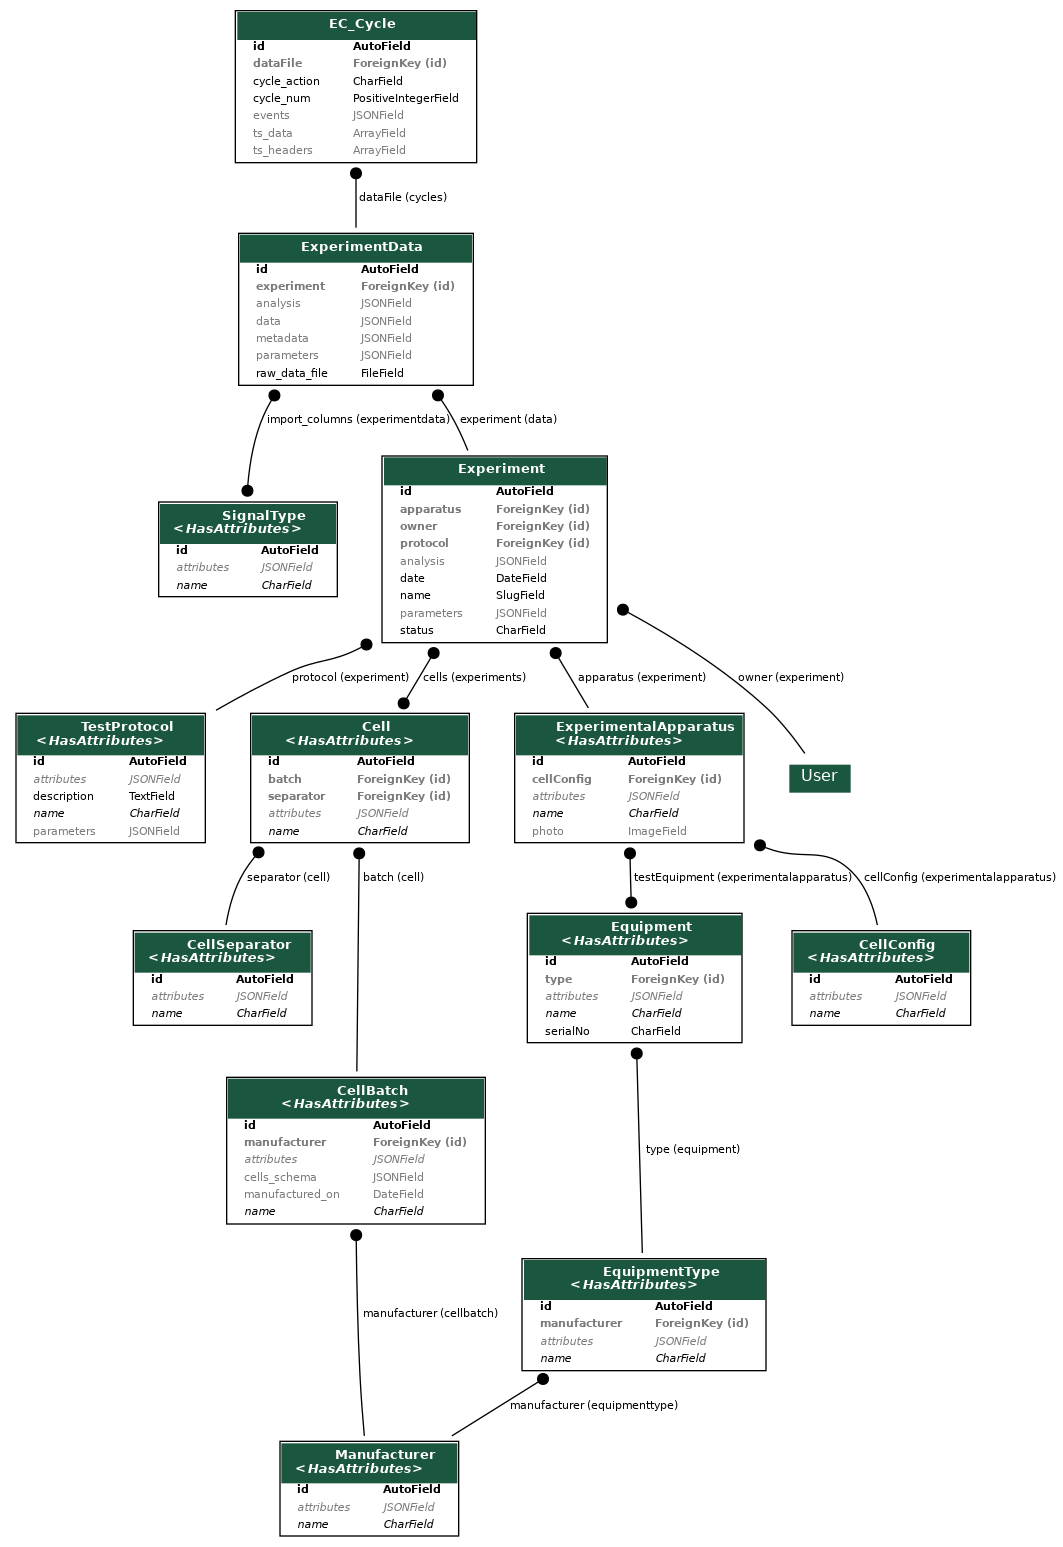
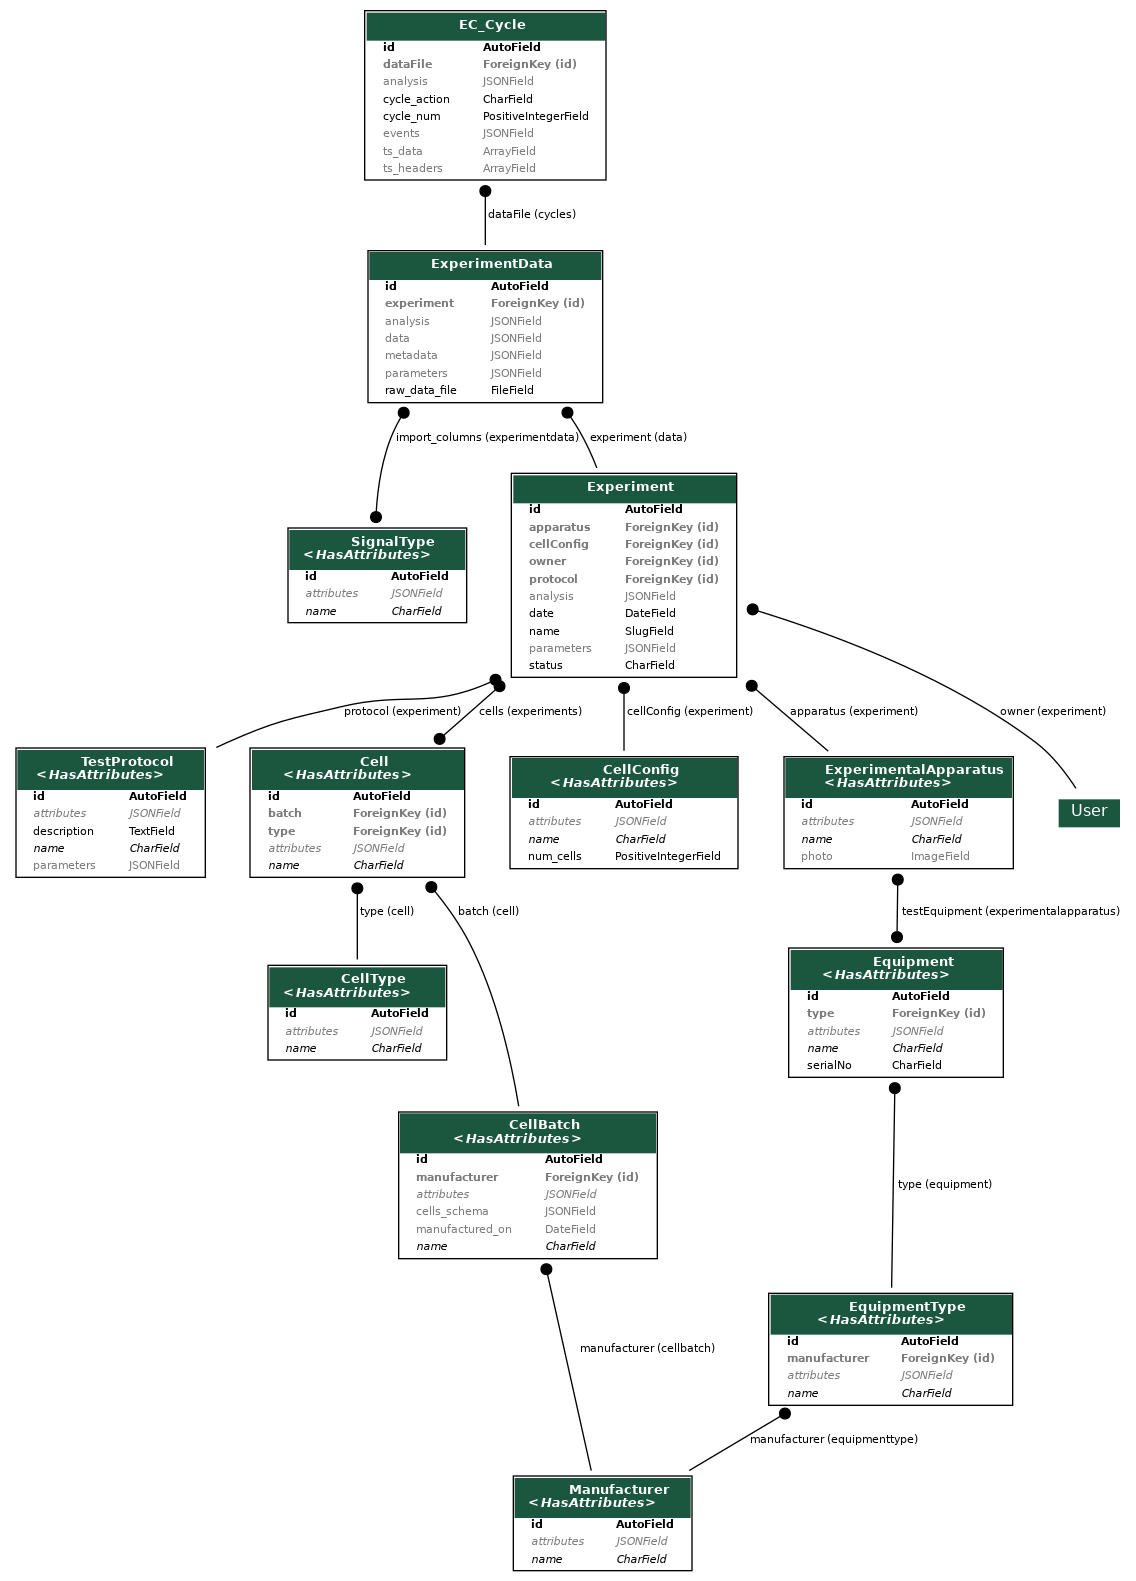
CellAttributes cleanup Added CellType model - allows cells and batches to be associated with a type containing general attributes removed cellSeparator model, instead added JSON attributes schema for CellType, CellBatch, Cell

diff --git a/djongoTest/battDB/models.py b/djongoTest/battDB/models.py
@@ -45,15 +45,21 @@ class Equipment(HasAttributes):
        verbose_name_plural="Equipment"
 
 def cellSeparator_schema():
+   pass
+
+def cell_schema():
     return {
-       "material":None,
-       "porosity_pct" : None
+       "Description":"Enter cell text description here - add parameters below",
+       "porosity_pct" : 10.0,
+       "separator" : "example atrtribute",
+       "electrolyte" : "example",
+       "electrode_material_pos":"example",
+       "electrode_material_neg":"example",
     }
 
-class CellSeparator(HasAttributes):
+class CellType(HasAttributes):
     pass
-CellSeparator._meta.get_field('attributes').default = cellSeparator_schema
-
+CellType._meta.get_field('attributes').default = cell_schema
 
 class CellBatch(HasAttributes):
     manufactured_on = models.DateField(null=True, blank=True)
@@ -61,23 +67,29 @@ class CellBatch(HasAttributes):
     cells_schema = JSONField(default=dict, blank=True)
     class Meta:
        verbose_name_plural="CellBatches"
-
-class CellConfig(HasAttributes):
-    pass
+CellBatch._meta.get_field('attributes').default = cell_schema
 
 class Cell(HasAttributes):
     batch = models.ForeignKey(CellBatch, on_delete=models.SET_NULL, null=True, blank=True)
-    separator = models.ForeignKey(CellSeparator, on_delete=models.SET_NULL, null=True, blank=True)
+    type = models.ForeignKey(CellType, on_delete=models.SET_NULL, null=True, blank=True)
+Cell._meta.get_field('attributes').default = cell_schema
+
+class CellConfig(HasAttributes):
+    # think about how to link cells into packs in a flexible way
+    num_cells = models.PositiveIntegerField(default=1)
 
 class ExperimentalApparatus(HasAttributes):
     testEquipment = models.ManyToManyField(Equipment)
-    cellConfig = models.ForeignKey(CellConfig, on_delete=models.SET_NULL,  null=True, blank=True)
     photo = models.ImageField(upload_to='apparatus_photos', null=True, blank=True)
     class Meta:
        verbose_name_plural="Experimental apparatus"
 
 def experimentParameters_schema():
     return {
+        "Example Parameter":"Value",
+        "NumCycles": 5,
+        "MinVoltage": 2.8,
+        "MaxVoltage": 4.2
     }
 
 def experimentAnalysis_schema():
@@ -105,6 +117,7 @@ class Experiment(models.Model):
     status = models.CharField(max_length=16, choices=[("edit", "Edit") , ("published", "Published")], default="edit")
     apparatus = models.ForeignKey(ExperimentalApparatus, on_delete=models.SET_NULL,  null=True, blank=True)
     cells = models.ManyToManyField(Cell, related_name='experiments')
+    cellConfig = models.ForeignKey(CellConfig, on_delete=models.SET_NULL,  null=True, blank=True)
     protocol = models.ForeignKey(TestProtocol, on_delete=models.SET_NULL,  null=True, blank=True)
     parameters = JSONField(default=experimentParameters_schema, blank=True)
     analysis = JSONField(default=experimentAnalysis_schema, blank=True)
@@ -141,6 +154,7 @@ class EC_Cycle(models.Model):
     ts_headers = ArrayField(models.CharField(max_length=32, null=True), null=True, blank=True)
     ts_data = ArrayField(ArrayField(models.FloatField(null=True), null=True), null=True, blank=True)
     events = JSONField(null=True, blank=True)
+    analysis = JSONField(default=experimentAnalysis_schema, blank=True)
     class Meta:
        verbose_name="EChem Cycle"
        verbose_name_plural="EChem Cycles"
@@ -180,3 +194,4 @@ def data_pre_save(sender, instance, *args, **kwargs):
 from django.dispatch import Signal
 from django.db.models import signals
 signals.post_save.connect(data_pre_save, sender=ExperimentData)
+

diff --git a/djongoTest/battDB/migrations/0032_auto_20200816_1432.py b/djongoTest/battDB/migrations/0032_auto_20200816_1432.py
@@ -1,0 +1,68 @@
+# Generated by Django 2.2.14 on 2020-08-16 14:32
+
+import battDB.models
+import django.contrib.postgres.fields.jsonb
+from django.db import migrations, models
+import django.db.models.deletion
+
+
+class Migration(migrations.Migration):
+
+    dependencies = [
+        ('battDB', '0031_auto_20200816_1357'),
+    ]
+
+    operations = [
+        migrations.CreateModel(
+            name='CellType',
+            fields=[
+                ('id', models.AutoField(auto_created=True, primary_key=True, serialize=False, verbose_name='ID')),
+                ('name', models.CharField(max_length=32, unique=True)),
+                ('attributes', django.contrib.postgres.fields.jsonb.JSONField(blank=True, default=battDB.models.cell_schema)),
+            ],
+            options={
+                'abstract': False,
+            },
+        ),
+        migrations.RemoveField(
+            model_name='cell',
+            name='separator',
+        ),
+        migrations.RemoveField(
+            model_name='experimentalapparatus',
+            name='cellConfig',
+        ),
+        migrations.AddField(
+            model_name='cellconfig',
+            name='num_cells',
+            field=models.PositiveIntegerField(default=1),
+        ),
+        migrations.AddField(
+            model_name='ec_cycle',
+            name='analysis',
+            field=django.contrib.postgres.fields.jsonb.JSONField(blank=True, default=battDB.models.experimentAnalysis_schema),
+        ),
+        migrations.AddField(
+            model_name='experiment',
+            name='cellConfig',
+            field=models.ForeignKey(blank=True, null=True, on_delete=django.db.models.deletion.SET_NULL, to='battDB.CellConfig'),
+        ),
+        migrations.AlterField(
+            model_name='cell',
+            name='attributes',
+            field=django.contrib.postgres.fields.jsonb.JSONField(blank=True, default=battDB.models.cell_schema),
+        ),
+        migrations.AlterField(
+            model_name='cellbatch',
+            name='attributes',
+            field=django.contrib.postgres.fields.jsonb.JSONField(blank=True, default=battDB.models.cell_schema),
+        ),
+        migrations.DeleteModel(
+            name='CellSeparator',
+        ),
+        migrations.AddField(
+            model_name='cell',
+            name='type',
+            field=models.ForeignKey(blank=True, null=True, on_delete=django.db.models.deletion.SET_NULL, to='battDB.CellType'),
+        ),
+    ]

diff --git a/djongoTest/battDB/migrations/0031_auto_20200816_1357.py b/djongoTest/battDB/migrations/0031_auto_20200816_1357.py
@@ -1,0 +1,29 @@
+# Generated by Django 2.2.14 on 2020-08-16 13:57
+
+import django.contrib.postgres.fields.jsonb
+from django.db import migrations, models
+import django.db.models.deletion
+
+
+class Migration(migrations.Migration):
+
+    dependencies = [
+        ('battDB', '0030_experimentdata_data'),
+    ]
+
+    operations = [
+        migrations.AlterModelOptions(
+            name='ec_cycle',
+            options={'verbose_name': 'EChem Cycle', 'verbose_name_plural': 'EChem Cycles'},
+        ),
+        migrations.AddField(
+            model_name='ec_cycle',
+            name='dataFile',
+            field=models.ForeignKey(blank=True, null=True, on_delete=django.db.models.deletion.SET_NULL, related_name='cycles', to='battDB.ExperimentData'),
+        ),
+        migrations.AddField(
+            model_name='ec_cycle',
+            name='events',
+            field=django.contrib.postgres.fields.jsonb.JSONField(blank=True, null=True),
+        ),
+    ]

diff --git a/djongoTest/battDB/admin.py b/djongoTest/battDB/admin.py
@@ -15,7 +15,7 @@ class MyAdmin(admin.ModelAdmin):
 
 admin.site.register([
     Experiment, TestProtocol, Equipment, EquipmentType, ExperimentalApparatus,
-    CellConfig, CellBatch, Cell, CellSeparator, Manufacturer, ExperimentData, EC_Cycle], MyAdmin)
+    CellConfig, CellBatch, Cell, CellType, Manufacturer, ExperimentData, EC_Cycle], MyAdmin)
 
 
 #class DataAdmin(MyAdmin):
